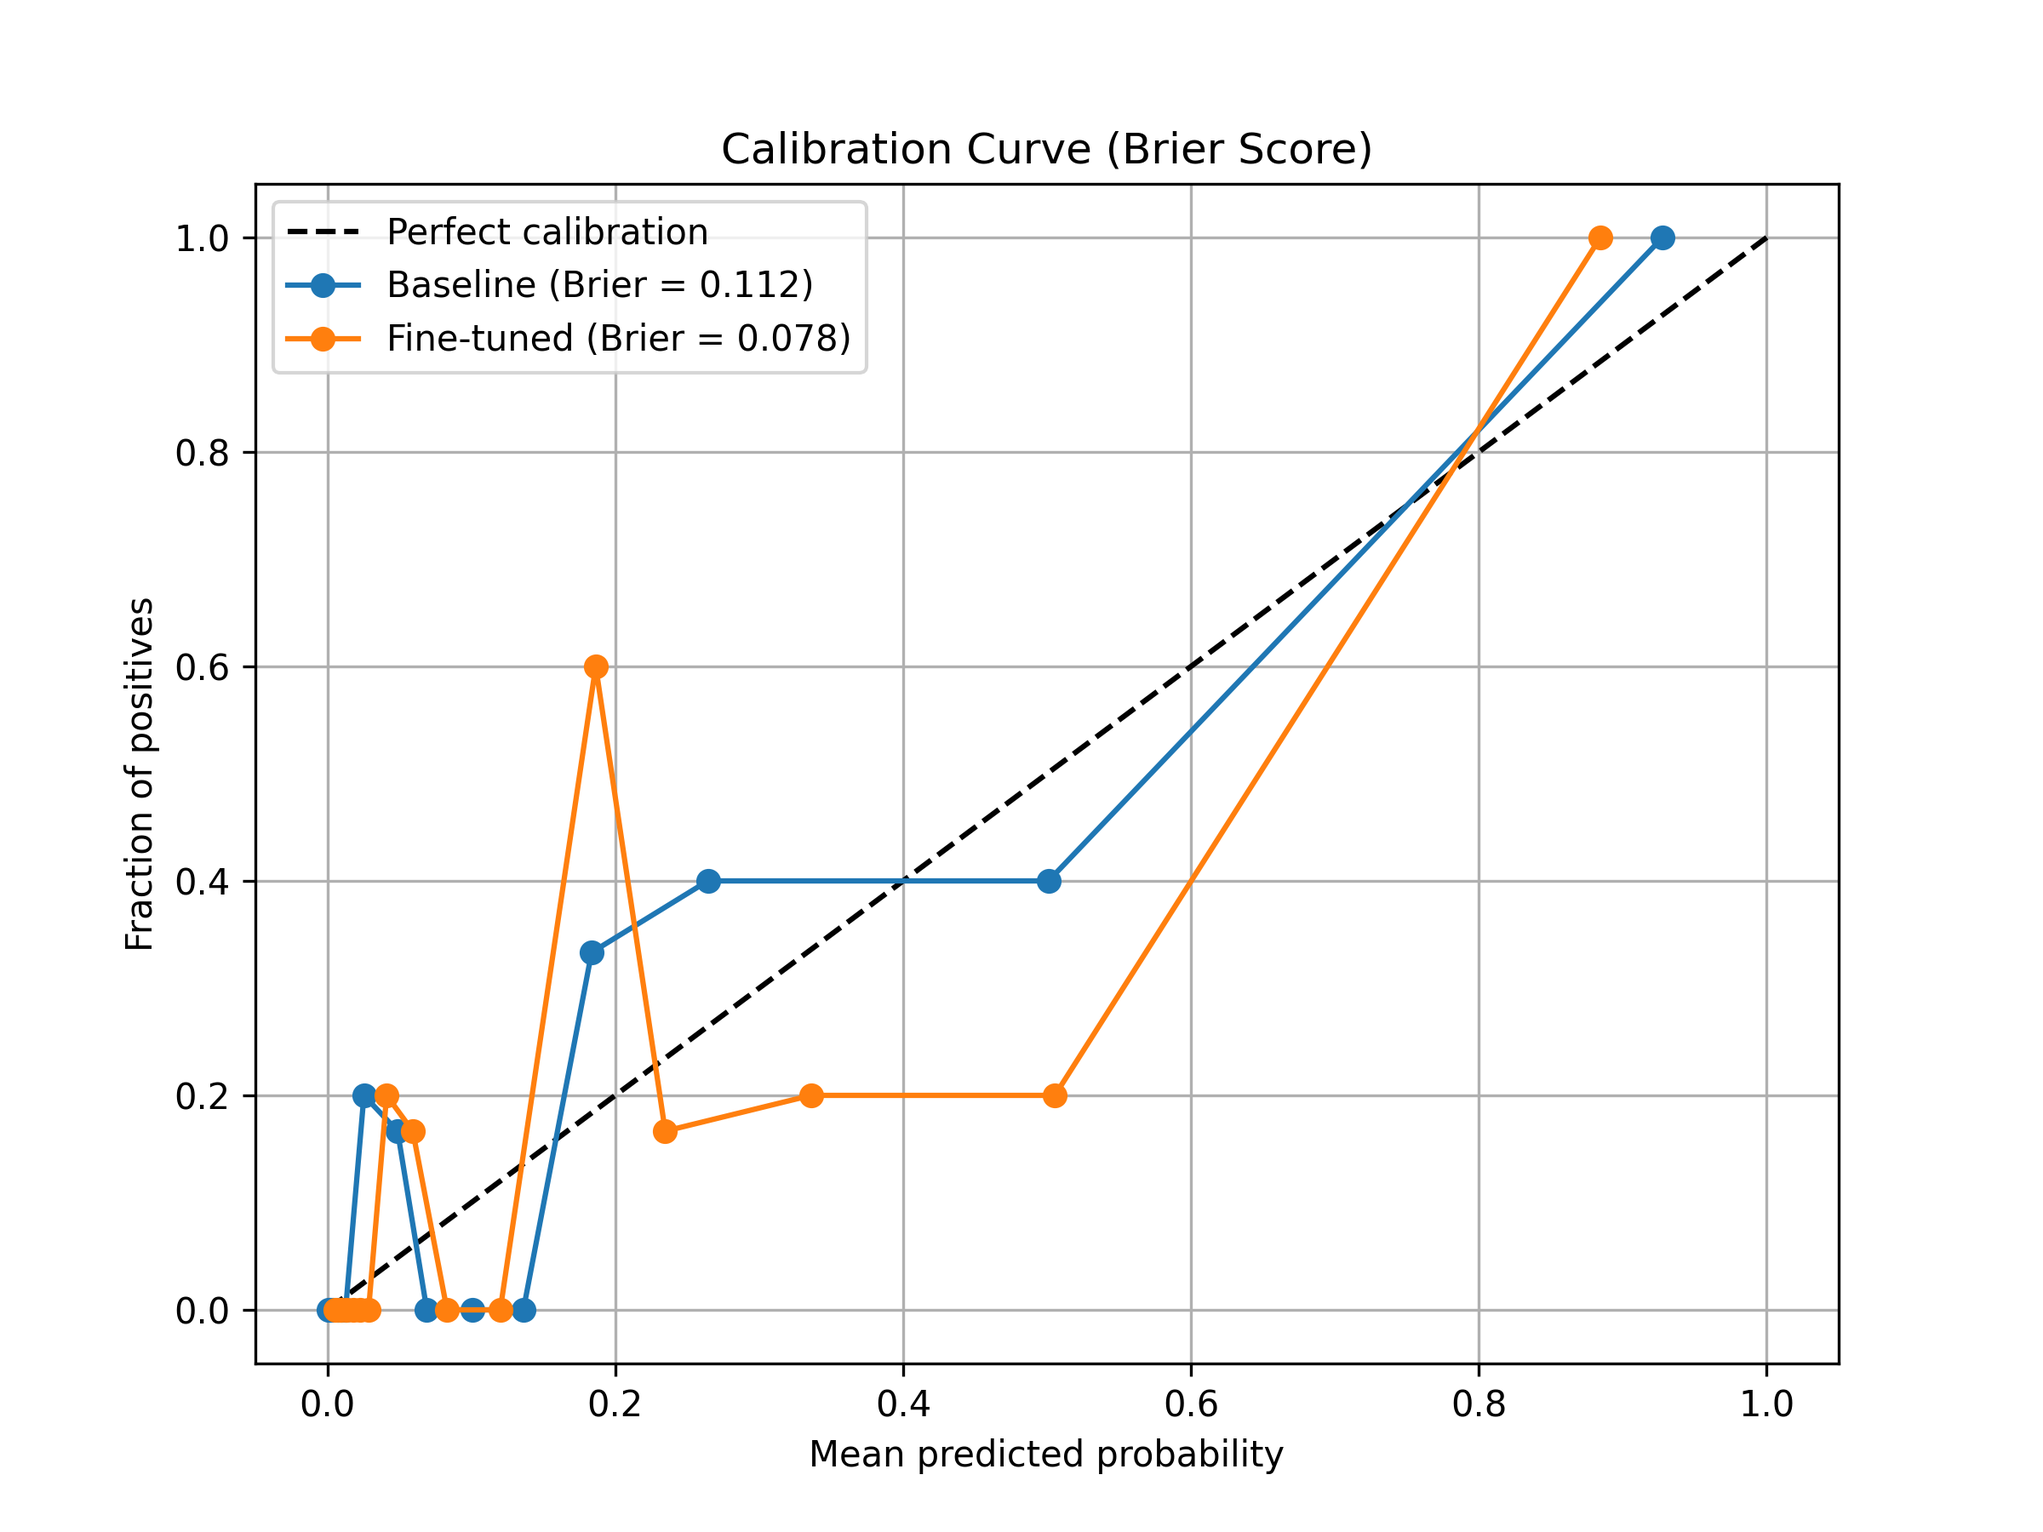
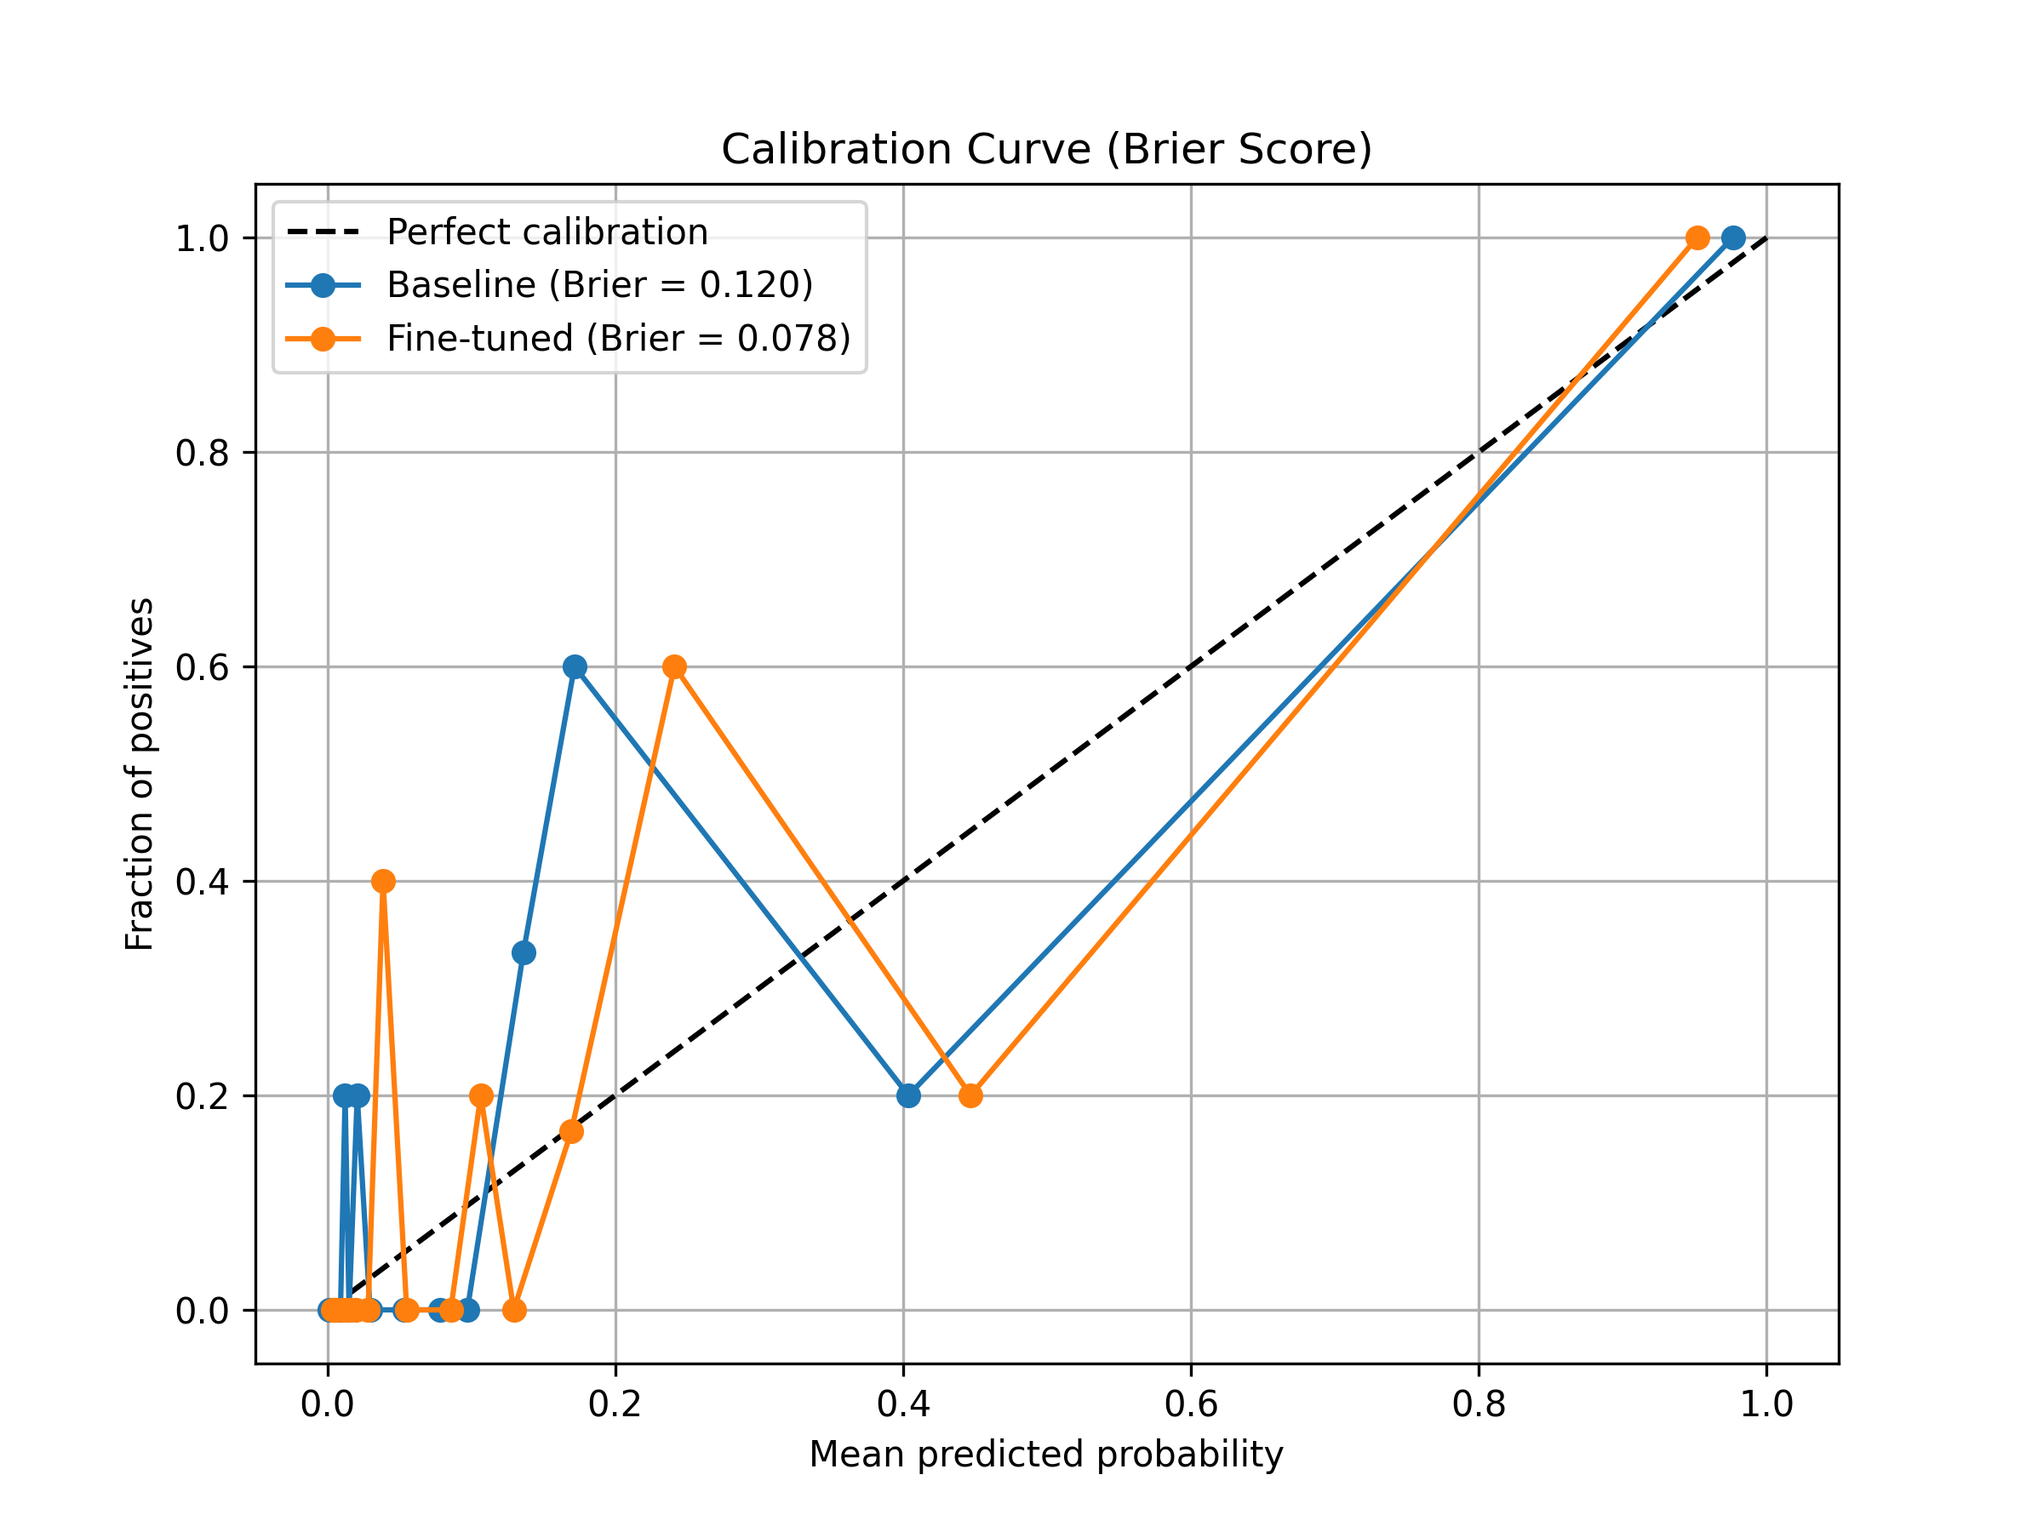
ajustes

diff --git a/terceiraparte/optuna_10.py b/terceiraparte/optuna_10.py
@@ -12,15 +12,16 @@ from sklearn.calibration import calibration_curve
 from multitask_mlp import MultiTaskMLP, HIDDEN_LAYERS, DROPOUTS, LEARNING_RATE, WEIGHT_DECAY, compute_ece
 from multitask_dataset import MultiTaskDataset
 
-SOURCE_PATH = r"C:\Users\rafae\seminario-ia\terceiraparte\datasets\age\dataset_adultos.csv"
-TARGET_PATH = r"C:\Users\rafae\seminario-ia\terceiraparte\datasets\age\dataset_idosos.csv"
+SOURCE_PATH = r"C:\Users\rafae\seminario-ia\terceiraparte\datasets\age\dataset_idosos.csv"
+TARGET_PATH = r"C:\Users\rafae\seminario-ia\terceiraparte\datasets\age\dataset_adultos.csv"
 
-N_TRIALS = 400
-EPOCHS_PRETRAIN = 50
-EPOCHS_FINE_TUNE = 50
+N_TRIALS = 100
+EPOCHS_PRETRAIN = 200
+EPOCHS_FINE_TUNE = 200
 EPOCHS_FINAL = 200
 BATCH_SIZE = 32
-N_RUNS_FINAL = 40  # quantidade de runs para média
+N_RUNS_FINAL = 40
+
 
 def sample_hidden_layers(
     trial,
@@ -30,7 +31,7 @@ def sample_hidden_layers(
     min_neurons=16
 ):
     if first_layer_choices is None:
-        first_layer_choices = [32, 64, 128, 256]
+        first_layer_choices = [32, 64, 128]
 
     n_layers = trial.suggest_int("n_layers", 2, max_layers)
     layer_1 = trial.suggest_categorical("layer_1", first_layer_choices)
@@ -67,7 +68,6 @@ def objective(trial, source_dataset, target_dataset):
 
     learning_rate = trial.suggest_loguniform("learning_rate", 1e-5, 1e-3)
     weight_decay = trial.suggest_loguniform("weight_decay", 1e-6, 1e-2)
-    min_recall_target = trial.suggest_float("min_recall_target", 0.3, 0.8)
 
     global HIDDEN_LAYERS, DROPOUTS, LEARNING_RATE, WEIGHT_DECAY
     HIDDEN_LAYERS[:] = hidden_layers
@@ -85,13 +85,21 @@ def objective(trial, source_dataset, target_dataset):
     val_probs = tf.reshape(val_outputs["prog"], [-1]).numpy()
     y_val = np.asarray(target_dataset.target_validation).ravel()
 
-    best_t, best_f1 = model.find_best_threshold(
-        y_val, val_probs, min_recall_target=min_recall_target)
+    best_t, best_f1 = model.find_best_threshold(y_val, val_probs)
 
     trial.set_user_attr("best_threshold", best_t)
-    trial.set_user_attr("min_recall_target", min_recall_target)
 
-    return best_f1
+    y_pred = (val_probs >= best_t).astype(int)
+
+    macro_f1 = f1_score(
+        y_val,
+        y_pred,
+        average="macro",
+        zero_division=0
+    )
+
+    return macro_f1
+
 
 if __name__ == "__main__":
     source_dataset = MultiTaskDataset(SOURCE_PATH)
@@ -108,11 +116,8 @@ if __name__ == "__main__":
     for k, v in study.best_params.items():
         print(f"{k}: {v}")
     best_threshold = study.best_trial.user_attrs.get("best_threshold", 0.5)
-    min_recall_target = study.best_trial.user_attrs.get(
-        "min_recall_target", 0.5)
     print(f"Melhor F1 no conjunto de validação: {study.best_value:.4f}")
     print(f"Melhor threshold encontrado: {best_threshold:.3f}")
-    print(f"Min recall target usado: {min_recall_target:.2f}")
     print("===================================================")
 
     best_params = study.best_params
@@ -142,7 +147,7 @@ if __name__ == "__main__":
         val_probs = tf.reshape(val_outputs["prog"], [-1]).numpy()
         y_val = np.asarray(target_dataset.target_validation).ravel()
         best_t, _ = model_base.find_best_threshold(
-            y_val, val_probs, min_recall_target=min_recall_target)
+            y_val, val_probs)
 
         test_outputs = model_base._predict_step(target_dataset.features_test)
         test_probs = tf.reshape(test_outputs["prog"], [-1]).numpy()
@@ -151,9 +156,11 @@ if __name__ == "__main__":
 
         metrics_baseline.append({
             "accuracy": accuracy_score(y_true, y_pred),
-            "precision": precision_score(y_true, y_pred, zero_division=0),
-            "recall": recall_score(y_true, y_pred, zero_division=0),
-            "f1_score": f1_score(y_true, y_pred, zero_division=0),
+            "precision_macro": precision_score(y_true, y_pred, average="macro", zero_division=0),
+            "recall_macro": recall_score(y_true, y_pred, average="macro", zero_division=0),
+            "f1_macro": f1_score(y_true, y_pred, average="macro", zero_division=0),
+            "f1_class_0": f1_score(y_true, y_pred, pos_label=0, zero_division=0),
+            "f1_class_1": f1_score(y_true, y_pred, pos_label=1, zero_division=0),
             "auc_roc": roc_auc_score(y_true, test_probs),
             "brier": brier_score_loss(y_true, test_probs),
             "ece": compute_ece(y_true, test_probs)
@@ -170,7 +177,7 @@ if __name__ == "__main__":
             target_dataset.features_validation)
         val_probs = tf.reshape(val_outputs["prog"], [-1]).numpy()
         best_t, _ = model_ft.find_best_threshold(
-            y_val, val_probs, min_recall_target=min_recall_target)
+            y_val, val_probs)
 
         test_outputs = model_ft._predict_step(target_dataset.features_test)
         test_probs = tf.reshape(test_outputs["prog"], [-1]).numpy()
@@ -178,9 +185,11 @@ if __name__ == "__main__":
 
         metrics_finetuned.append({
             "accuracy": accuracy_score(y_true, y_pred),
-            "precision": precision_score(y_true, y_pred, zero_division=0),
-            "recall": recall_score(y_true, y_pred, zero_division=0),
-            "f1_score": f1_score(y_true, y_pred, zero_division=0),
+            "precision_macro": precision_score(y_true, y_pred, average="macro", zero_division=0),
+            "recall_macro": recall_score(y_true, y_pred, average="macro", zero_division=0),
+            "f1_macro": f1_score(y_true, y_pred, average="macro", zero_division=0),
+            "f1_class_0": f1_score(y_true, y_pred, pos_label=0, zero_division=0),
+            "f1_class_1": f1_score(y_true, y_pred, pos_label=1, zero_division=0),
             "auc_roc": roc_auc_score(y_true, test_probs),
             "brier": brier_score_loss(y_true, test_probs),
             "ece": compute_ece(y_true, test_probs)
@@ -195,17 +204,27 @@ if __name__ == "__main__":
     print("===================================================")
     print("Resultados médios finais (10 runs):")
     print("scenario,accuracy,precision,recall,f1_score,auc_roc,brier,ece")
-    print(f"baseline,{avg_baseline['accuracy']:.4f},{avg_baseline['precision']:.4f},"
-          f"{avg_baseline['recall']:.4f},{avg_baseline['f1_score']:.4f},{avg_baseline['auc_roc']:.4f},"
+    print(f"baseline,{avg_baseline['accuracy']:.4f},{avg_baseline['precision_macro']:.4f},"
+          f"{avg_baseline['recall_macro']:.4f},{avg_baseline['f1_macro']:.4f},{avg_baseline['auc_roc']:.4f},"
           f"{avg_baseline['brier']:.4f},{avg_baseline['ece']:.4f}")
-    print(f"fine_tuned_target,{avg_finetuned['accuracy']:.4f},{avg_finetuned['precision']:.4f},"
-          f"{avg_finetuned['recall']:.4f},{avg_finetuned['f1_score']:.4f},{avg_finetuned['auc_roc']:.4f},"
+    print(f"fine_tuned_target,{avg_finetuned['accuracy']:.4f},{avg_finetuned['precision_macro']:.4f},"
+          f"{avg_finetuned['recall_macro']:.4f},{avg_finetuned['f1_macro']:.4f},{avg_finetuned['auc_roc']:.4f},"
           f"{avg_finetuned['brier']:.4f},{avg_finetuned['ece']:.4f}")
     print("===================================================")
 
     csv_file = "mlp_results_avg.csv"
-    fieldnames = ["scenario", "accuracy", "precision",
-                  "recall", "f1_score", "auc_roc", "brier", "ece"]
+    fieldnames = [
+        "scenario",
+        "accuracy",
+        "precision_macro",
+        "recall_macro",
+        "f1_macro",
+        "f1_class_0",
+        "f1_class_1",
+        "auc_roc",
+        "brier",
+        "ece"
+    ]
 
     with open(csv_file, "w", newline="", encoding="utf-8") as f:
         writer = csv.DictWriter(f, fieldnames=fieldnames)
@@ -283,4 +302,3 @@ if __name__ == "__main__":
     plt.close()
 
     print(f"[INFO] Curva de calibração (Brier) salva em {calibration_file}")
-

diff --git a/terceiraparte/multitask_mlp.py b/terceiraparte/multitask_mlp.py
@@ -23,6 +23,7 @@ ACTIVATION = "relu"
 THRESHOLD_STEPS = 100
 PROTEINURIA_LOSS_WEIGHT = 0.2
 
+
 def compute_ece(y_true, y_prob, n_bins=10):
     y_true = np.asarray(y_true)
     y_prob = np.asarray(y_prob)
@@ -39,6 +40,7 @@ def compute_ece(y_true, y_prob, n_bins=10):
             ece += abs(bin_conf - bin_acc) * mask.sum() / len(y_true)
     return ece
 
+
 class MultiTaskMLP:
     def __init__(self, shape):
         inputs = keras.layers.Input(shape=(shape,))
@@ -53,10 +55,13 @@ class MultiTaskMLP:
             )(x)
             x = keras.layers.Dropout(DROPOUTS[idx], name=f"dropout_{idx+1}")(x)
 
-        prog_output = keras.layers.Dense(1, activation="sigmoid", name="prog")(x)
-        proteinuria_output = keras.layers.Dense(1, activation="sigmoid", name="proteinuria")(x)
+        prog_output = keras.layers.Dense(
+            1, activation="sigmoid", name="prog")(x)
+        proteinuria_output = keras.layers.Dense(
+            1, activation="sigmoid", name="proteinuria")(x)
 
-        self.model = keras.Model(inputs=inputs, outputs={"prog": prog_output, "proteinuria": proteinuria_output})
+        self.model = keras.Model(inputs=inputs, outputs={
+                                 "prog": prog_output, "proteinuria": proteinuria_output})
         self.temperature = tf.Variable(1.0, dtype=tf.float32, trainable=True)
         self.history = None
         self.compile()
@@ -66,20 +71,25 @@ class MultiTaskMLP:
 
     def compile(self):
         self.model.compile(
-            optimizer=keras.optimizers.AdamW(learning_rate=LEARNING_RATE, weight_decay=WEIGHT_DECAY),
-            loss={"prog": "binary_crossentropy", "proteinuria": "binary_crossentropy"},
+            optimizer=keras.optimizers.AdamW(
+                learning_rate=LEARNING_RATE, weight_decay=WEIGHT_DECAY),
+            loss={"prog": "binary_crossentropy",
+                  "proteinuria": "binary_crossentropy"},
             loss_weights={"prog": 1.0, "proteinuria": PROTEINURIA_LOSS_WEIGHT},
-            metrics={"prog": [keras.metrics.AUC(name="auc")], "proteinuria": [keras.metrics.AUC(name="auc")]}
+            metrics={"prog": [keras.metrics.AUC(name="auc")], "proteinuria": [
+                keras.metrics.AUC(name="auc")]}
         )
 
     def train(self, dataset, epochs=2000, batch_size=32, verbose=1, name="run"):
         os.makedirs("logs", exist_ok=True)
-        early_stopping = EarlyStopping(monitor="val_prog_auc", mode="max", patience=15, restore_best_weights=True)
+        early_stopping = EarlyStopping(
+            monitor="val_prog_auc", mode="max", patience=15, restore_best_weights=True)
 
         history = self.model.fit(
             dataset.features_train,
             {"prog": dataset.target_train, "proteinuria": dataset.proteinuria_train},
-            validation_data=(dataset.features_validation, {"prog": dataset.target_validation, "proteinuria": dataset.proteinuria_validation}),
+            validation_data=(dataset.features_validation, {
+                             "prog": dataset.target_validation, "proteinuria": dataset.proteinuria_validation}),
             epochs=epochs,
             batch_size=batch_size,
             callbacks=[early_stopping],
@@ -102,52 +112,56 @@ class MultiTaskMLP:
         for _ in range(epochs):
             with tf.GradientTape() as tape:
                 scaled_logits = logits / self.temperature
-                loss = tf.reduce_mean(tf.keras.losses.binary_crossentropy(y_true, tf.sigmoid(scaled_logits)))
+                loss = tf.reduce_mean(tf.keras.losses.binary_crossentropy(
+                    y_true, tf.sigmoid(scaled_logits)))
             grads = tape.gradient(loss, [self.temperature])
             optimizer.apply_gradients(zip(grads, [self.temperature]))
         print(f"[INFO] Melhor temperature: {self.temperature.numpy():.3f}")
 
-    def find_best_threshold(self, y_true, y_prob, min_recall_target=0.5):
+    def find_best_threshold(self, y_true, y_prob):
         thresholds = np.linspace(0.05, 0.95, THRESHOLD_STEPS)
-        best_score = -1  
+        best_score = -np.inf
         best_t = 0.5
-        best_f1 = 0.0
 
         for t in thresholds:
             y_pred = (y_prob >= t).astype(int)
-            r = recall_score(y_true, y_pred, zero_division=0)
-            p = precision_score(y_true, y_pred, zero_division=0)
 
-            if r < min_recall_target:
-                continue
-
-            score = f1_score(y_true, y_pred, zero_division=0) - 0.1 * abs(p - r)
+            score = f1_score(
+                y_true,
+                y_pred,
+                average="macro",
+                zero_division=0
+            )
 
             if score > best_score:
                 best_score = score
                 best_t = t
-                best_f1 = f1_score(y_true, y_pred, zero_division=0)
 
-        return best_t, best_f1
+        return best_t, best_score
 
     @tf.function(reduce_retracing=True)
     def _predict_step(self, inputs):
         return self.model(inputs, training=False)
 
-    def predict_all(self, dataset, min_recall_target=0.5):
+    def predict_all(self, dataset):
         val_outputs = self._predict_step(dataset.features_validation)
         val_probs = tf.reshape(val_outputs["prog"], [-1])
-        y_val = tf.convert_to_tensor(np.asarray(dataset.target_validation).ravel(), dtype=tf.float32)
+        y_val = tf.convert_to_tensor(np.asarray(
+            dataset.target_validation).ravel(), dtype=tf.float32)
 
         self.fit_temperature(val_probs, y_val)
-        val_probs_cal = tf.sigmoid(self.probs_to_logits_tf(val_probs) / self.temperature).numpy()
+        val_probs_cal = tf.sigmoid(self.probs_to_logits_tf(
+            val_probs) / self.temperature).numpy()
 
-        best_t, best_f1 = self.find_best_threshold(y_val.numpy(), val_probs_cal, min_recall_target=min_recall_target)
-        print(f"[INFO] Melhor threshold: {best_t:.3f} | F1: {best_f1:.3f}")
+        best_t, best_f1 = self.find_best_threshold(
+            y_val.numpy(),
+            val_probs_cal
+        )
 
         test_outputs = self._predict_step(dataset.features_test)
         test_probs = tf.reshape(test_outputs["prog"], [-1])
-        test_probs_cal = tf.sigmoid(self.probs_to_logits_tf(test_probs) / self.temperature).numpy()
+        test_probs_cal = tf.sigmoid(self.probs_to_logits_tf(
+            test_probs) / self.temperature).numpy()
         y_pred = (test_probs_cal >= best_t).astype(int)
         y_true = np.asarray(dataset.target_test).ravel()
         auc = float(tf.keras.metrics.AUC()(y_true, test_probs_cal).numpy())
@@ -155,9 +169,11 @@ class MultiTaskMLP:
         results = {
             "prog": {
                 "accuracy": accuracy_score(y_true, y_pred),
-                "precision": precision_score(y_true, y_pred, zero_division=0),
-                "recall": recall_score(y_true, y_pred, zero_division=0),
-                "f1_score": f1_score(y_true, y_pred, zero_division=0),
+                "precision_macro": precision_score(y_true, y_pred, average="macro", zero_division=0),
+                "recall_macro": recall_score(y_true, y_pred, average="macro", zero_division=0),
+                "f1_macro": f1_score(y_true, y_pred, average="macro", zero_division=0),
+                "f1_class_0": f1_score(y_true, y_pred, pos_label=0, zero_division=0),
+                "f1_class_1": f1_score(y_true, y_pred, pos_label=1, zero_division=0),
                 "auc_roc": auc,
                 "brier": brier_score_loss(y_true, test_probs_cal),
                 "ece": compute_ece(y_true, test_probs_cal),
